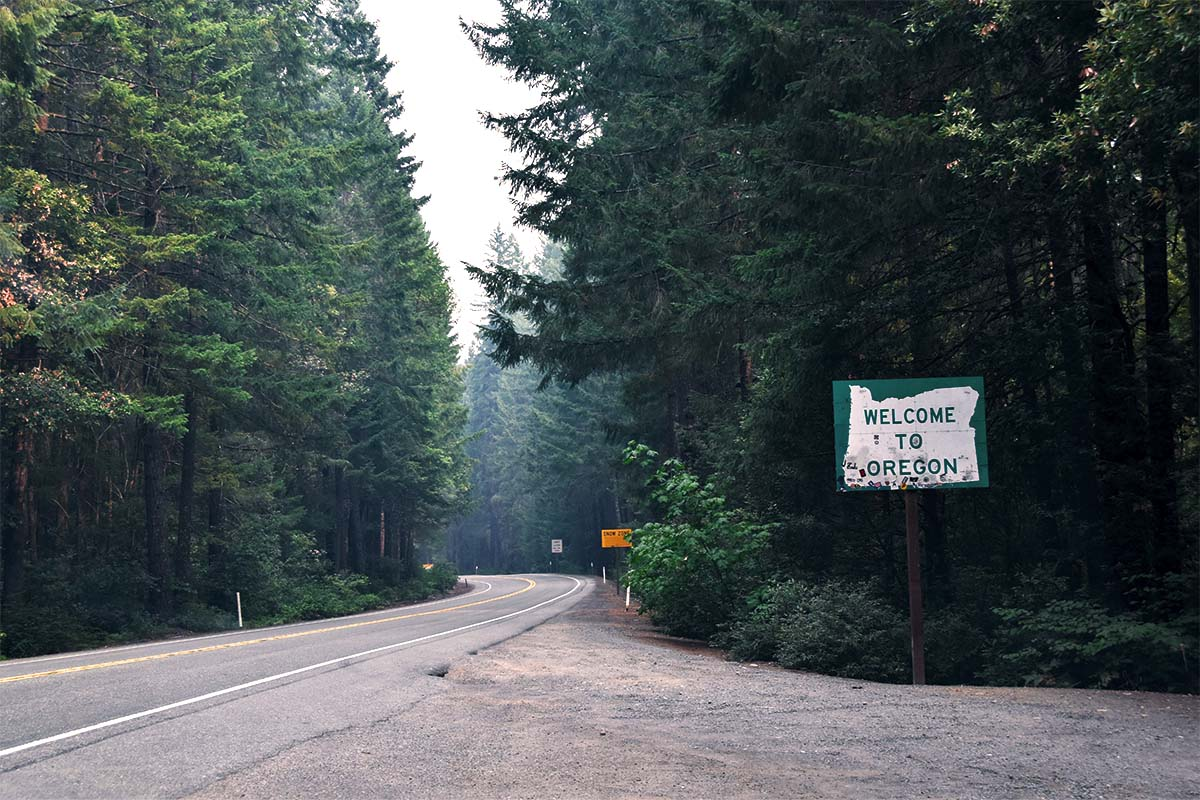
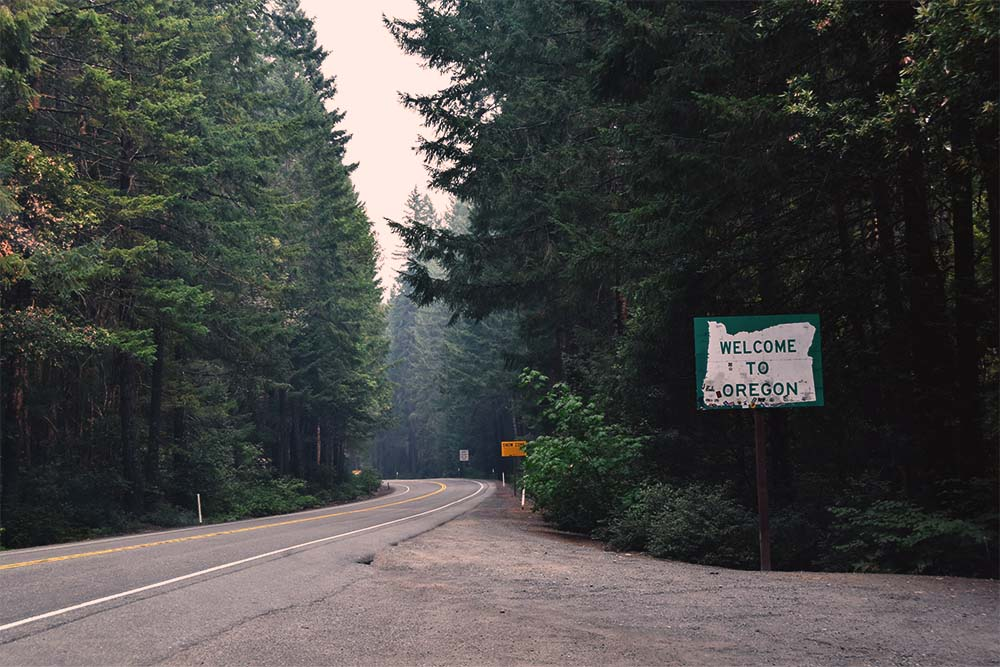
Edit image to fit grid

diff --git a/style.css b/style.css
@@ -74,7 +74,7 @@ p {
 .main-img {
     max-width: 50%;
     height: auto;
-    object-fit: cover;
+    /* object-fit: cover; */
 }
 
 .main-img img {
